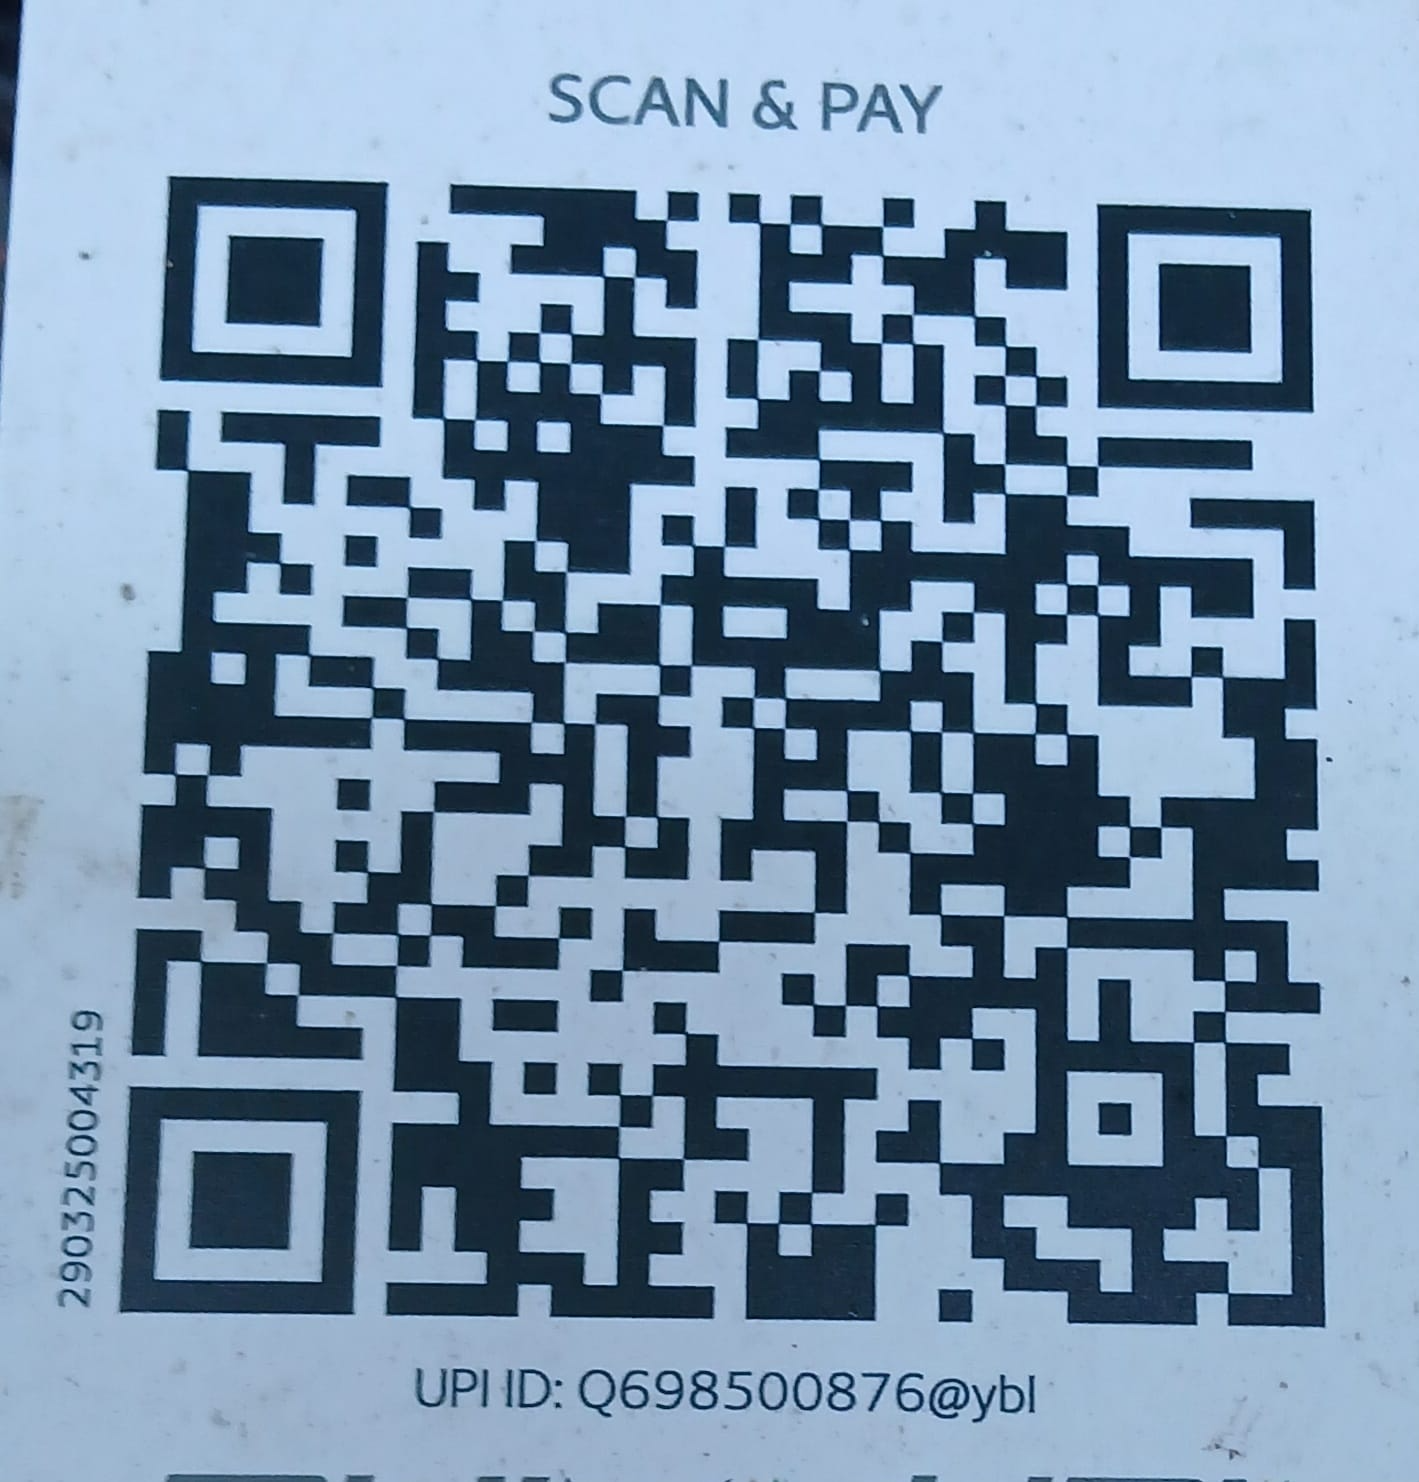
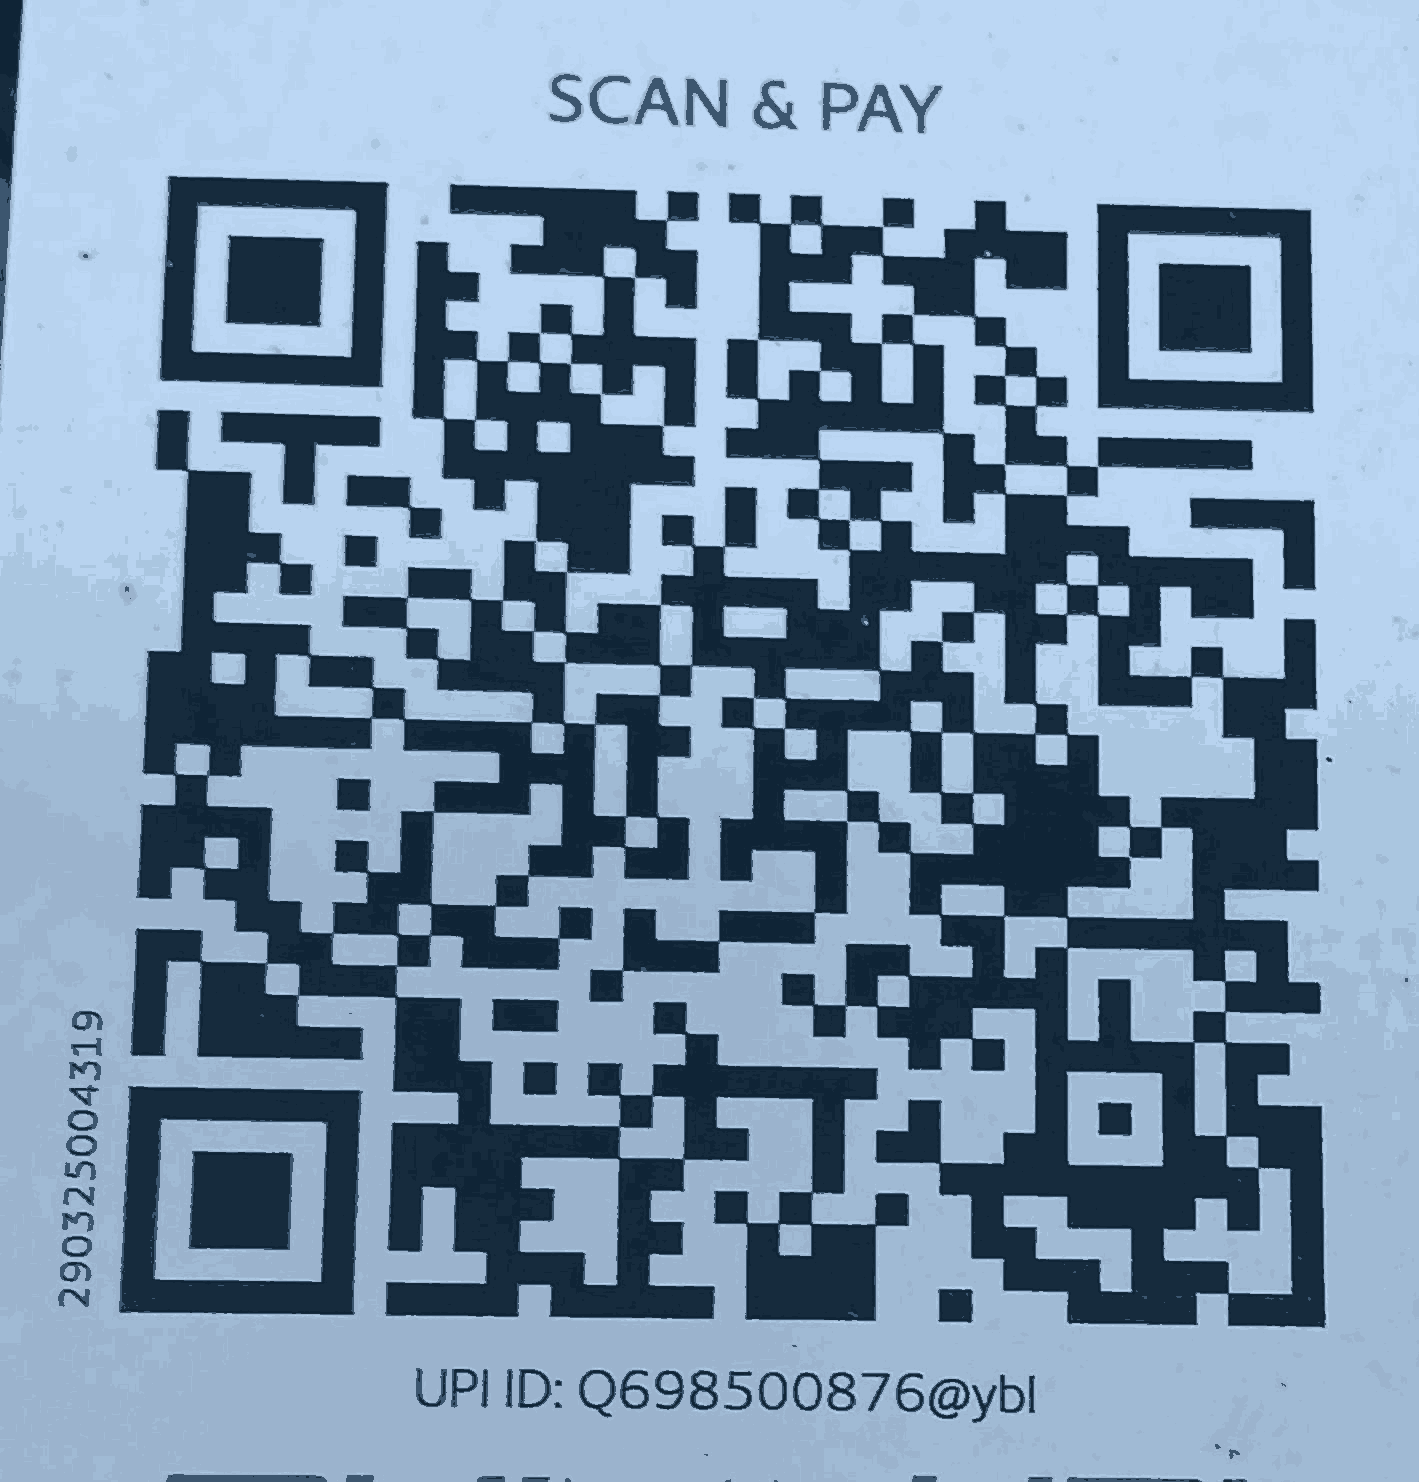
Stop UPI links opening the Play Store; shrink oversized images
UPI fix (regression from 844e53c):
- Chrome opens the Play Store listing when an intent:// carries package= and
  resolution fails with no S.browser_fallback_url. Removing the fallback in the
  previous commit turned every miss into a store redirect.
- Resolution always failed anyway: UPI payment activities register with category
  DEFAULT for app-to-app invocation and do not declare BROWSABLE, which Chrome
  force-adds to every intent:// launch. A specific UPI app cannot be targeted
  from a browser at all.
- Never emit package= from the web, and always pass browser_fallback_url. Android
  now offers the UPI apps that are actually installed; a miss lands on our retry
  page instead of the store.
- Replace the three branded buttons with one honest "Pay with UPI" action; the
  logos stay as a works-with row.

Images:
- QR 2010KB -> 125KB and og.png 2749KB -> 401KB (resolution of the QR untouched,
  a soft QR is a failed payment).
- Lazy-load and async-decode category covers, cart thumbnails and the QR.
- Cache /menu-images, /owner-menu and /payment for a year, immutable.
- Gitignore tsconfig.tsbuildinfo.

diff --git a/app/page.tsx b/app/page.tsx
@@ -7,7 +7,6 @@ import {
   UPI_ID,
   createUpiQuery,
   createUpiUrl,
-  type UpiApp,
 } from "./payment-config";
 import { buildUpiLaunchSteps, launchUpiSequence } from "./upi-launch";
 
@@ -244,20 +243,19 @@ export default function Home() {
     setLocationMessage("GPS pin removed. The restaurant will use your written address.");
   };
 
-  const openUpiApp = (app: UpiApp) => {
+  const openUpiApp = () => {
     cancelUpiLaunchRef.current?.();
 
     const fallbackQuery = new URLSearchParams({
-      app: app.id,
       amount: basketTotal.toFixed(2),
       order: paymentOrderId,
     });
     const fallbackUrl = `${window.location.origin}/upi-payment?${fallbackQuery.toString()}`;
 
-    setUpiLaunchStatus(`Opening ${app.name}…`);
+    setUpiLaunchStatus("Opening your UPI app…");
 
     cancelUpiLaunchRef.current = launchUpiSequence(
-      buildUpiLaunchSteps(app, upiQuery),
+      buildUpiLaunchSteps(upiQuery, fallbackUrl),
       {
         onStep: (label) => setUpiLaunchStatus(label),
         onExhausted: () => {
@@ -347,7 +345,7 @@ export default function Home() {
           <section className="category-grid" aria-label="Menu categories">
             {clientCategories.map((category, index) => (
               <button className={`category-card category-card-${index + 1}`} key={category.id} onClick={() => chooseCategory(category.id)}>
-                <img src={category.cover} alt="" /><span className="category-overlay" />
+                <img src={category.cover} alt="" loading="lazy" decoding="async" fetchPriority="low" /><span className="category-overlay" />
                 <span className="category-content">
                   <span className="category-number">0{index + 1}</span>
                   <span><span className="category-eyebrow">{category.eyebrow}</span><strong>{category.name}</strong><small>{category.description}</small></span>
@@ -389,7 +387,7 @@ export default function Home() {
         <div className="modal-backdrop" role="presentation" onMouseDown={() => setFocused(null)}>
           <section className="item-modal" role="dialog" aria-modal="true" aria-labelledby="item-modal-title" onMouseDown={(event) => event.stopPropagation()}>
             <button className="modal-close" onClick={() => setFocused(null)} aria-label="Close item details">×</button>
-            <div className="modal-image">{focused.image ? <img src={focused.image} alt={focused.name} /> : <div className="photo-placeholder" role="img" aria-label={`${focused.name} photo coming soon`}><span>Owner photo</span><strong>Coming soon</strong></div>}{focused.tag && <span className="item-tag">{focused.tag}</span>}</div>
+            <div className="modal-image">{focused.image ? <img src={focused.image} alt={focused.name} decoding="async" /> : <div className="photo-placeholder" role="img" aria-label={`${focused.name} photo coming soon`}><span>Owner photo</span><strong>Coming soon</strong></div>}{focused.tag && <span className="item-tag">{focused.tag}</span>}</div>
             <div className="modal-copy">
               <p className="eyebrow">Chai N Pani selection</p>
               <h2 id="item-modal-title">{focused.name}</h2>
@@ -443,7 +441,7 @@ export default function Home() {
                       <div className="order-item" key={key}>
                         <div className="order-item-main">
                           <div className="order-item-image">
-                            {item.image ? <img src={item.image} alt="" /> : <span>{item.name.charAt(0)}</span>}
+                            {item.image ? <img src={item.image} alt="" loading="lazy" decoding="async" /> : <span>{item.name.charAt(0)}</span>}
                           </div>
                           <div className="order-item-copy">
                             <span className="order-item-name">{item.name}</span>
@@ -556,22 +554,23 @@ export default function Home() {
                   <span>Payee UPI</span><strong>{UPI_ID}</strong>
                 </div>
 
-                <div className="upi-app-grid" aria-label="Choose a UPI payment app">
+                <button className="upi-pay-button" type="button" onClick={openUpiApp}>
+                  <strong>Pay ₹ {basketTotal} with UPI</strong>
+                  <small>Your phone will ask which app to use</small>
+                </button>
+                <div className="upi-app-logos" aria-hidden="true">
                   {UPI_APPS.map((app) => (
-                    <button className={`upi-app-button upi-${app.id}`} type="button" onClick={() => openUpiApp(app)} key={app.id}>
-                      <span className="upi-app-logo-wrap"><img className="upi-app-logo" src={app.logo} alt={`${app.name} logo`} /></span>
-                      <span className="upi-app-copy"><strong>Pay with {app.name}</strong><small>₹ {basketTotal} will be prefilled</small></span>
-                      <span className="upi-app-arrow" aria-hidden="true">→</span>
-                    </button>
+                    <span className="upi-app-logo-wrap" key={app.id}>
+                      <img className="upi-app-logo" src={app.logo} alt="" loading="lazy" decoding="async" />
+                    </span>
                   ))}
                 </div>
                 {upiLaunchStatus && <p className="upi-launch-status" aria-live="polite">{upiLaunchStatus}</p>}
-                <a className="upi-any-button" href={upiUrl}>Use any other UPI app · ₹ {basketTotal}</a>
-                <p className="payment-footnote">Each branded button targets the selected app first, then that app’s own link, then your phone’s UPI chooser. The amount, payee and order reference stay prefilled throughout, and the retry page only appears if every attempt fails.</p>
+                <p className="payment-footnote">Android picks from the UPI apps you already have installed — Google Pay, PhonePe, Paytm or any bank app — with the amount, payee and order reference prefilled. If nothing opens, scan the QR below or pay {UPI_ID} by hand.</p>
 
                 <div className="payment-divider"><span>or scan to pay</span></div>
                 <div className="qr-payment-card">
-                  <img src="/payment/chai-n-pani-upi-qr.png" alt={`UPI QR code for ${UPI_ID}`} />
+                  <img src="/payment/chai-n-pani-upi-qr.png" alt={`UPI QR code for ${UPI_ID}`} width={320} height={334} loading="lazy" decoding="async" />
                   <div>
                     <strong>Scan with any UPI app</strong>
                     <span>Enter exactly ₹ {basketTotal}</span>

diff --git a/app/upi-launch.ts b/app/upi-launch.ts
@@ -1,25 +1,11 @@
 "use client";
 
-import {
-  createAndroidUpiIntentUrl,
-  createUpiAppSchemeUrls,
-  createUpiChooserIntentUrl,
-  createUpiUrl,
-  type UpiApp,
-} from "./payment-config";
+import { createUpiChooserIntentUrl, createUpiUrl } from "./payment-config";
 
 export type LaunchStep = { url: string; waitMs: number; label: string };
 
-type NavigatorWithUaData = Navigator & {
-  userAgentData?: { platform?: string; mobile?: boolean };
-};
+type NavigatorWithUaData = Navigator & { userAgentData?: { platform?: string } };
 
-/**
- * Desktop-site mode and several in-app WebViews strip "Android" from the UA
- * string, so a plain userAgent test used to send real Android users straight to
- * the retry page. Check the UA client hint first and never hard-gate on this —
- * a wrong answer only changes the order of attempts, not whether we try.
- */
 export const isAndroid = (): boolean => {
   if (typeof navigator === "undefined") return false;
   const uaData = (navigator as NavigatorWithUaData).userAgentData;
@@ -42,32 +28,20 @@ const openUrl = (url: string) => {
 };
 
 /**
- * Ordered attempts, cheapest-to-fail first. Each one is independent: if the
- * pinned package will not resolve we move on instead of surrendering.
+ * Android: one unpinned chooser intent, carrying a browser fallback so a miss
+ * lands on our retry page rather than the Play Store.
+ * Everywhere else (iOS, in-app WebViews, desktop): the bare upi:// scheme, which
+ * is all those environments understand.
  */
-export const buildUpiLaunchSteps = (app: UpiApp, query: string): LaunchStep[] => {
-  const android = isAndroid();
-  const steps: LaunchStep[] = [];
-
-  if (android) {
-    steps.push({
-      url: createAndroidUpiIntentUrl(app, query),
-      waitMs: 1300,
-      label: `Opening ${app.name}…`,
-    });
+export const buildUpiLaunchSteps = (query: string, fallbackUrl: string): LaunchStep[] => {
+  const label = "Opening your UPI app…";
+  if (isAndroid()) {
+    return [
+      { url: createUpiChooserIntentUrl(query, fallbackUrl), waitMs: 1800, label },
+      { url: createUpiUrl(query), waitMs: 1500, label },
+    ];
   }
-
-  for (const url of createUpiAppSchemeUrls(app, query)) {
-    steps.push({ url, waitMs: 900, label: `Opening ${app.name}…` });
-  }
-
-  steps.push({
-    url: android ? createUpiChooserIntentUrl(query) : createUpiUrl(query),
-    waitMs: 1600,
-    label: "Opening your UPI app…",
-  });
-
-  return steps;
+  return [{ url: createUpiUrl(query), waitMs: 1800, label }];
 };
 
 export type LaunchHandlers = {
@@ -75,10 +49,6 @@ export type LaunchHandlers = {
   onExhausted: () => void;
 };
 
-/**
- * Runs the steps until the page is backgrounded (which means an app took over)
- * or the list runs out. Returns a cancel function.
- */
 export const launchUpiSequence = (
   steps: LaunchStep[],
   handlers: LaunchHandlers,
@@ -88,9 +58,7 @@ export const launchUpiSequence = (
   let cancelled = false;
   let timer: number | undefined;
 
-  const markOpened = () => {
-    opened = true;
-  };
+  const markOpened = () => { opened = true; };
   const markOpenedIfHidden = () => {
     if (document.visibilityState === "hidden" || document.hidden) opened = true;
   };
@@ -105,15 +73,8 @@ export const launchUpiSequence = (
 
   const runNext = () => {
     if (cancelled) return;
-    if (opened || document.visibilityState === "hidden") {
-      cleanup();
-      return;
-    }
-    if (index >= steps.length) {
-      cleanup();
-      handlers.onExhausted();
-      return;
-    }
+    if (opened || document.visibilityState === "hidden") { cleanup(); return; }
+    if (index >= steps.length) { cleanup(); handlers.onExhausted(); return; }
     const step = steps[index];
     index += 1;
     handlers.onStep?.(step.label, index, steps.length);

diff --git a/app/payment-config.ts b/app/payment-config.ts
@@ -1,28 +1,22 @@
 export const UPI_ID = "Q698500876@ybl";
 export const UPI_PAYEE_NAME = "Chai N Pani";
 
+/** Logos only. These are NOT launch targets - see createUpiChooserIntentUrl. */
 export const UPI_APPS = [
   {
     id: "gpay",
     name: "Google Pay",
     logo: "/payment/google-pay-mark.svg",
-    packageName: "com.google.android.apps.nbu.paisa.user",
-    // Google Pay still answers on the legacy Tez scheme; keep both.
-    schemes: ["gpay://upi/pay", "tez://upi/pay"],
   },
   {
     id: "phonepe",
     name: "PhonePe",
     logo: "/payment/phonepe-logo.svg",
-    packageName: "com.phonepe.app",
-    schemes: ["phonepe://pay"],
   },
   {
     id: "paytm",
     name: "Paytm",
     logo: "/payment/paytm-logo.png",
-    packageName: "net.one97.paytm",
-    schemes: ["paytmmp://pay", "paytm://pay"],
   },
 ] as const;
 
@@ -55,34 +49,27 @@ export const createUpiQuery = (amount: string, orderId: string) =>
 
 export const createUpiUrl = (query: string) => `upi://pay?${query}`;
 
-/** Per-app private schemes. These survive in-app WebViews where intent:// does not. */
-export const createUpiAppSchemeUrls = (app: UpiApp, query: string) =>
-  app.schemes.map((scheme) => `${scheme}?${query}`);
-
 const buildIntentUrl = (query: string, extras: string) =>
   `intent://pay?${query}#Intent;scheme=upi;action=android.intent.action.VIEW;` +
   `category=android.intent.category.BROWSABLE;${extras}end`;
 
 /**
- * Package-scoped intent. `S.browser_fallback_url` is now OPT-IN and deliberately
- * unused by the launcher: Chrome fires the fallback the instant the pinned
- * package cannot be resolved, which is why an installed app still ended up on
- * the "try an installed app" page.
+ * Unpinned intent plus a mandatory browser fallback.
+ *
+ * Two hard rules learned the painful way:
+ *
+ * 1. NEVER emit `package=` from a web page. Chrome cannot resolve a UPI app's
+ *    payment activity, because those activities are registered for app-to-app
+ *    invocation with category DEFAULT only - they do not declare BROWSABLE, and
+ *    Chrome force-adds BROWSABLE to every intent:// it launches. Resolution
+ *    fails even when the app is installed.
+ * 2. ALWAYS pass fallbackUrl. When `package=` is set and resolution fails with
+ *    no fallback, Chrome's documented behaviour is to open the Play Store
+ *    listing for that package. That combination is exactly how an installed
+ *    Google Pay ended up showing its own Play Store page.
+ *
+ * Leaving the package off means Android picks from the apps actually installed,
+ * and the fallback means a miss lands on our own retry page, never the store.
  */
-export const createAndroidUpiIntentUrl = (
-  app: UpiApp,
-  query: string,
-  fallbackUrl?: string,
-) =>
-  buildIntentUrl(
-    query,
-    `package=${app.packageName};` +
-      (fallbackUrl ? `S.browser_fallback_url=${encodeURIComponent(fallbackUrl)};` : ""),
-  );
-
-/** Unpinned intent — Android shows its own UPI chooser. Most reliable path. */
-export const createUpiChooserIntentUrl = (query: string, fallbackUrl?: string) =>
-  buildIntentUrl(
-    query,
-    fallbackUrl ? `S.browser_fallback_url=${encodeURIComponent(fallbackUrl)};` : "",
-  );
+export const createUpiChooserIntentUrl = (query: string, fallbackUrl: string) =>
+  buildIntentUrl(query, `S.browser_fallback_url=${encodeURIComponent(fallbackUrl)};`);

diff --git a/app/upi-payment/page.tsx b/app/upi-payment/page.tsx
@@ -5,12 +5,10 @@ import { useSearchParams } from "next/navigation";
 import {
   UPI_ID,
   UPI_PAYEE_NAME,
-  createUpiChooserIntentUrl,
   createUpiQuery,
   createUpiUrl,
-  findUpiApp,
 } from "../payment-config";
-import { buildUpiLaunchSteps, isAndroid, launchUpiSequence } from "../upi-launch";
+import { buildUpiLaunchSteps, launchUpiSequence } from "../upi-launch";
 
 function UpiPaymentContent() {
   const query = useSearchParams();
@@ -28,28 +26,26 @@ function UpiPaymentContent() {
     };
   }, [query]);
 
-  const selectedApp = findUpiApp(details.appId);
   const upiQuery = useMemo(
     () => createUpiQuery(details.amount, details.orderId),
     [details.amount, details.orderId],
   );
-  const chooserUrl = isAndroid() ? createUpiChooserIntentUrl(upiQuery) : createUpiUrl(upiQuery);
+  // A plain upi:// href, not an intent - a real tap here must never reach the Play Store.
+  const chooserUrl = createUpiUrl(upiQuery);
 
   useEffect(() => () => cancelRef.current?.(), []);
 
   const retrySelectedApp = useCallback(() => {
     cancelRef.current?.();
-    setStatus(`Opening ${selectedApp.name}…`);
-    cancelRef.current = launchUpiSequence(buildUpiLaunchSteps(selectedApp, upiQuery), {
+    setStatus("Opening your UPI app…");
+    cancelRef.current = launchUpiSequence(buildUpiLaunchSteps(upiQuery, window.location.href), {
       onStep: (label) => setStatus(label),
       onExhausted: () => {
         cancelRef.current = null;
-        setStatus(
-          `${selectedApp.name} did not respond. Use the UPI chooser below, or pay ${UPI_ID} manually from inside the app.`,
-        );
+        setStatus(`No UPI app responded. Scan the QR on the order page, or pay ${UPI_ID} by hand from inside your app.`);
       },
     });
-  }, [selectedApp, upiQuery]);
+  }, [upiQuery]);
 
   const copyUpiId = useCallback(async () => {
     try {
@@ -65,11 +61,10 @@ function UpiPaymentContent() {
     <main className="upi-fallback-page">
       <section className="upi-fallback-card">
         <p className="eyebrow">Chai N Pani · UPI payment</p>
-        <div className="upi-fallback-logo"><img src={selectedApp.logo} alt={`${selectedApp.name} logo`} /></div>
         <h1>Open your payment app</h1>
         <p className="upi-fallback-copy">
-          Your browser blocked every automatic attempt to hand this payment to {selectedApp.name}. Nothing has been
-          charged. Retry below, or open any UPI app — the amount and payee are prefilled either way.
+          Your browser could not hand this payment to a UPI app. Nothing has been charged. Retry below, or just pay the
+          UPI ID by hand — the amount and payee are the same either way.
         </p>
 
         <div className="upi-fallback-summary">
@@ -80,9 +75,9 @@ function UpiPaymentContent() {
         </div>
 
         <button className="upi-fallback-primary" type="button" onClick={retrySelectedApp}>
-          Try {selectedApp.name} again · ₹ {details.amount}
+          Try again · ₹ {details.amount}
         </button>
-        <a className="upi-fallback-any" href={chooserUrl}>Open my UPI app chooser</a>
+        <a className="upi-fallback-any" href={chooserUrl}>Open any UPI app</a>
         <button className="upi-fallback-back" type="button" onClick={copyUpiId}>
           {copied ? "UPI ID copied ✓" : "Copy UPI ID instead"}
         </button>

diff --git a/app/globals.css b/app/globals.css
@@ -334,3 +334,8 @@ img { display: block; }
 @media (prefers-reduced-motion: reduce) { *, *::before, *::after { scroll-behavior: auto !important; animation-duration: .01ms !important; transition-duration: .01ms !important; } }
 
 .upi-launch-status { margin: 10px 0 0; padding: 10px 14px; border-radius: 12px; background: var(--bone); color: var(--muted); text-align: center; font-size: 11px; line-height: 1.5; }
+
+.upi-pay-button { width: 100%; min-height: 62px; padding: 12px; border: 0; border-radius: 999px; display: grid; gap: 3px; place-items: center; background: var(--rust); color: #fff; cursor: pointer; box-shadow: 0 14px 30px rgba(183,73,45,.2); }
+.upi-pay-button strong { font-size: 13px; font-weight: 900; }
+.upi-pay-button small { font-size: 10px; opacity: .85; }
+.upi-app-logos { margin-top: 12px; display: flex; gap: 8px; justify-content: center; }

diff --git a/next.config.ts b/next.config.ts
@@ -3,6 +3,18 @@ import type { NextConfig } from "next";
 const isVercelBuild = process.env.CNP_DEPLOY_TARGET === "vercel" || process.env.VERCEL === "1";
 
 const nextConfig: NextConfig = {
+  // Menu photos never change without a new filename, so let the browser and the
+  // CDN keep them for a year instead of revalidating on every page view.
+  async headers() {
+    return [
+      {
+        source: "/:dir(menu-images|owner-menu|payment)/:path*",
+        headers: [
+          { key: "Cache-Control", value: "public, max-age=31536000, stale-while-revalidate=86400, immutable" },
+        ],
+      },
+    ];
+  },
   ...(isVercelBuild ? {
     typescript: {
       tsconfigPath: "tsconfig.vercel.json",

diff --git a/app/layout.tsx b/app/layout.tsx
@@ -16,7 +16,7 @@ export const metadata: Metadata = {
     title: "Chai N Pani — Order Indian & Indo-Chinese Food",
     description: "Indian mains, Indo-Chinese favourites, quick bites, rice, biryani, drinks and desserts.",
     type: "website",
-    images: [{ url: "/og.png", width: 1731, height: 906, alt: "Chai N Pani Indian and Indo-Chinese menu" }],
+    images: [{ url: "/og.png", width: 1200, height: 628, alt: "Chai N Pani Indian and Indo-Chinese menu" }],
   },
   twitter: {
     card: "summary_large_image",
